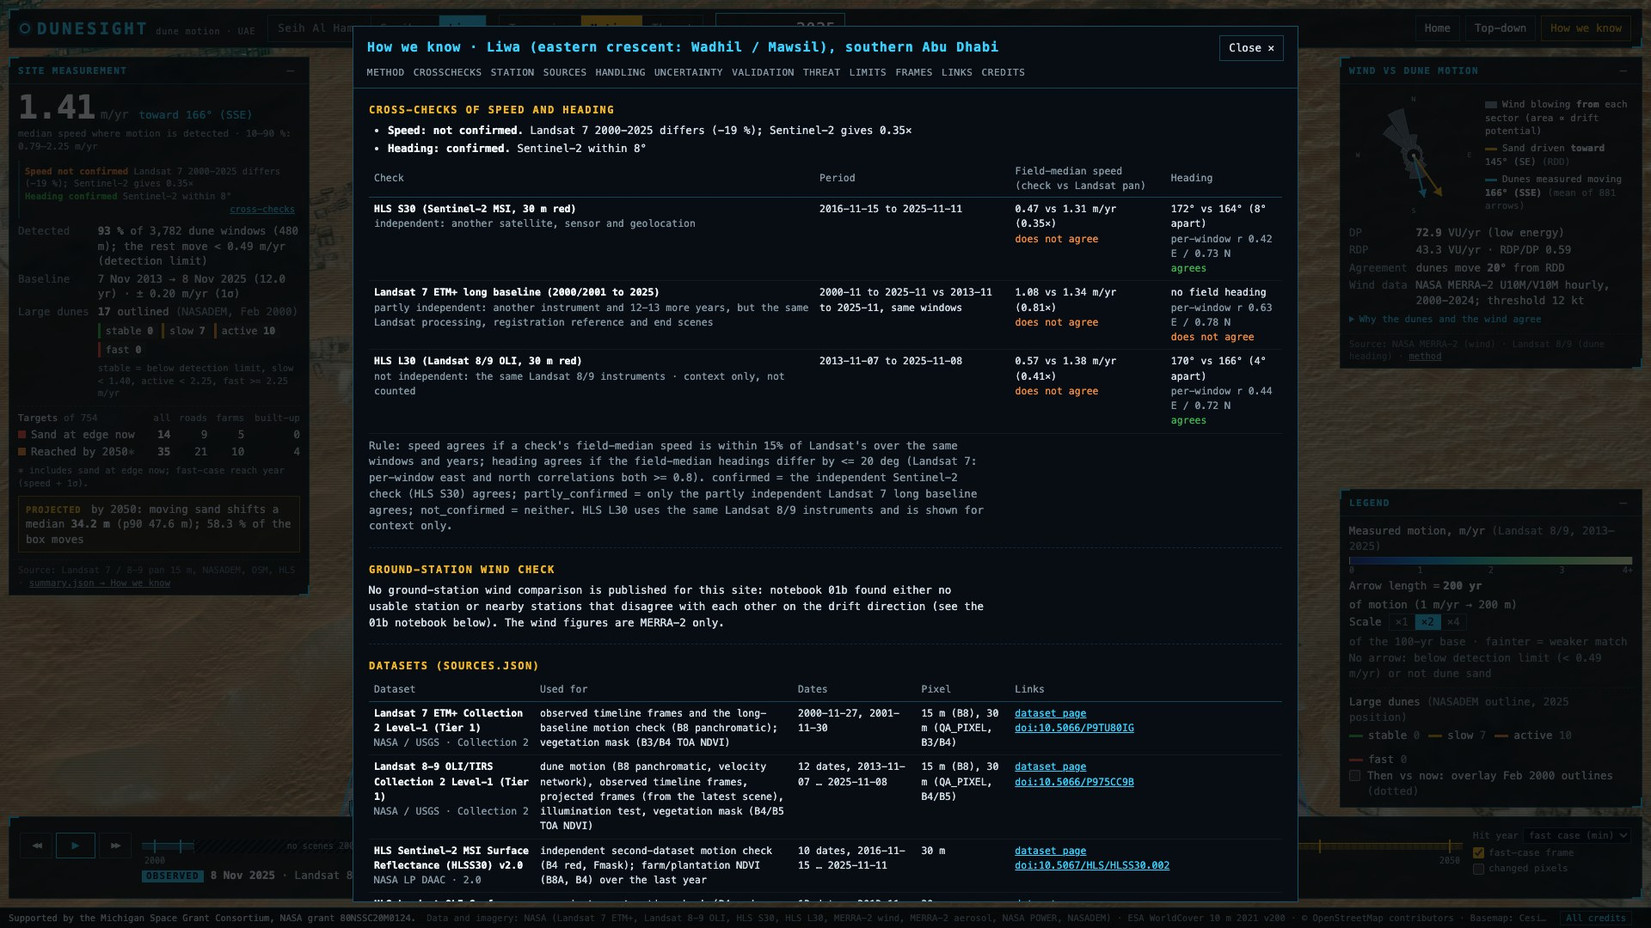
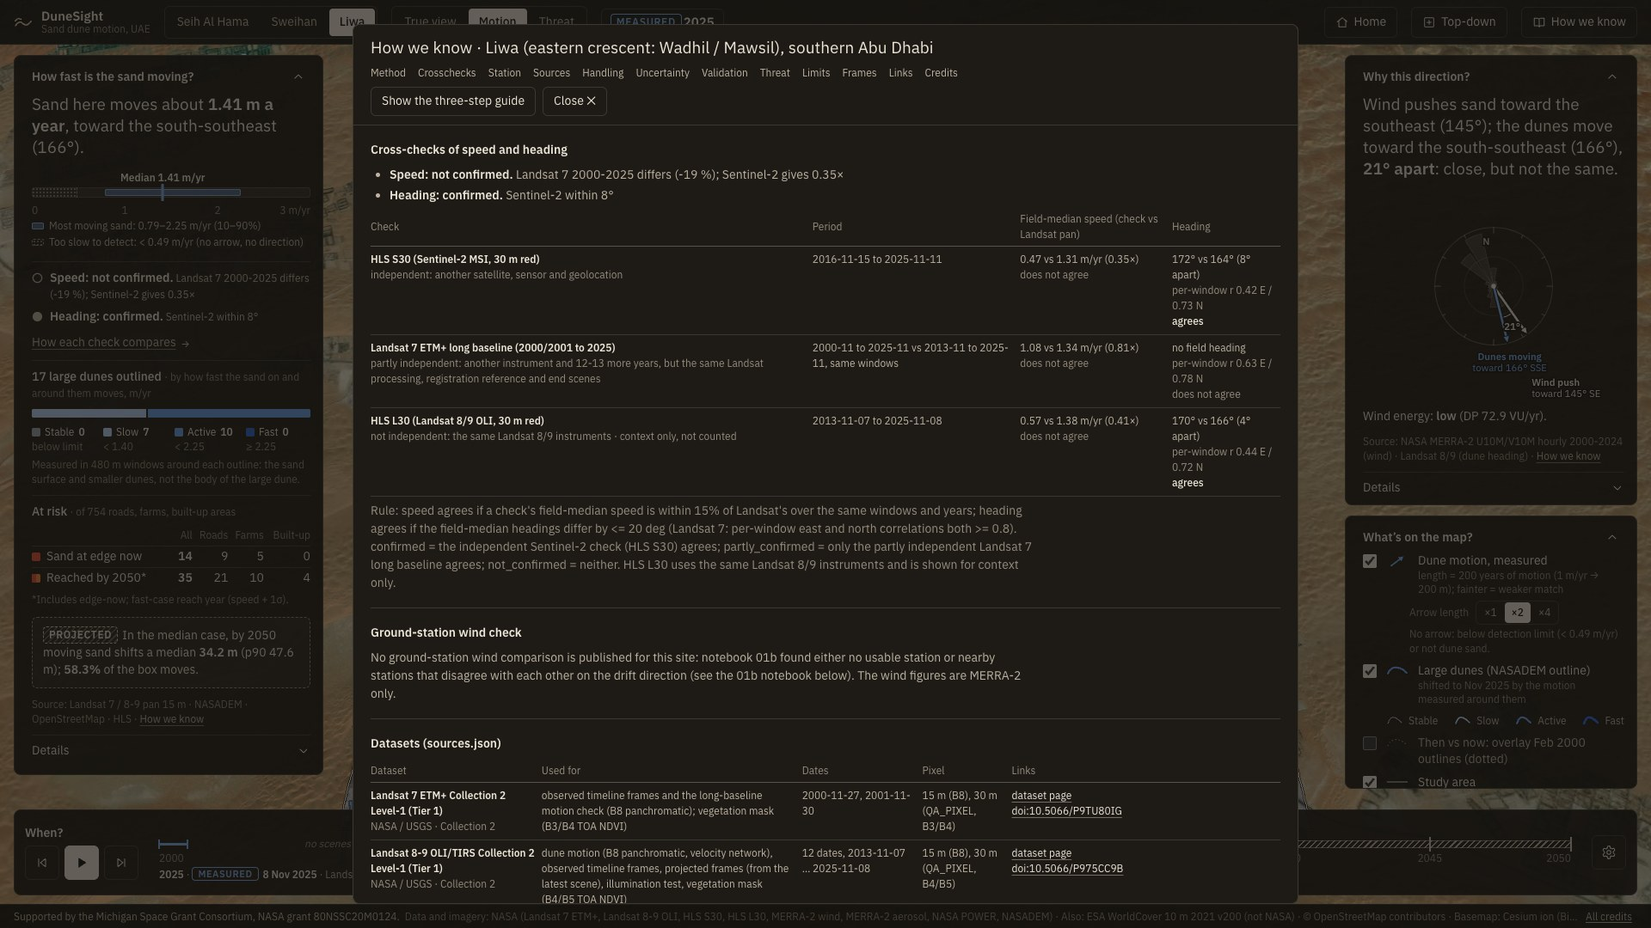
Docs: retake screenshots for the redesigned UI, add a phone screenshot; update README, explain-it and As built

diff --git a/docs/explain-it.md b/docs/explain-it.md
@@ -4,40 +4,46 @@ One line per module, copied from the comment at the top of each file.
 
 | Module | What it does |
 |---|---|
-| `src/main.js` | Boots DuneSight: creates the globe, loads the site index, runs the fly-in, builds each site's layers on first visit and wires state, timeline, picking and HUD together. |
+| `src/main.js` | Boots DuneSight: creates the globe, loads the site index, mounts the UI (src/ui/ui.js) with each site's data, runs the fly-in, builds each site's layers on first visit and wires the UI's callbacks to layers, timeline, picking, camera and the dossier. |
+| `src/ui/ui.js` | DuneSight UI: header, panels (speed, wind, reached places, selection), timeline, legend, first-visit guide, mobile sheet, credits footer. Also exports `MAP_STYLE`, the line colours and widths the map layers use. |
+| `src/ui/site-data.js` | Builds the data object the redesigned UI (ui.js) renders, for one site, from that site's published files only (no site ids, no sample numbers). |
+| `src/ui/tokens.css` | Design tokens of the "field survey instrument" look: colours (each carries one meaning), type, spacing. |
+| `src/ui/ui.css` | Panels, header, timeline, legend, guide and mobile sheet, scoped under `.ds-ui`, plus the pieces the app added (reached list, selection card, measured/projected tags, phone footer). |
 | `src/basemap.js` | Creates the Cesium viewer: ion terrain + imagery when a token works, otherwise Esri imagery on a flat globe, and a dark globe with a note when the basemap is offline. |
 | `src/data.js` | Fetches and caches the static site data under public/data/ (base-path aware) and derives a few values the HUD needs. |
 | `src/state.js` | App state (site, mode, timeline position, selection, toggles) plus a tiny event emitter that modules subscribe to. |
 | `src/format.js` | Number, unit, range, compass-point, date and year formatting in one place, so nothing prints "null", "undefined" or "NaN". |
 | `src/geo.js` | Small geodesy helpers: metre offsets on the ground around a lon/lat, polygon rings, centroids and point-in-polygon. |
-| `src/timeline.js` | Timeline model and control: weather-radar style bar from the first observed scene to 2050 with real gaps, observed/projected division, play/step/scrub and the label of the frame on screen. |
-| `src/layers/frames.js` | Imagery-frame layer: drapes the manifest's observed Landsat frames and amber-tinted projected frames on the globe inside the exact frame bounds, with cross-fades and an optional changed-pixel overlay. |
-| `src/layers/vectors.js` | Motion-vector layer: one ground-clamped arrow per detected 480 m window, pointing along heading_deg, coloured by speed, length on a stated time scale, plus true-scale displacement tracks in projected years. |
-| `src/layers/targets.js` | Target layer: road segments, farms and built-up areas from targets.geojson, batched into a few ground primitives and coloured by threat status at the timeline year. |
-| `src/layers/dunes.js` | Large-dune layer: NASADEM-resolved dune outlines (2025 positions) coloured by class with id labels (decluttered on screen), threat pulse, and the year-2000 outlines dotted for then-vs-now. |
-| `src/layers/util.js` | Shared helpers for the batched ground primitives: colour attributes, readiness, line/polygon instances and colour ramps. |
-| `src/hud/header.js` | HUD header: DuneSight brand, site switcher, mode buttons, OBSERVED/PROJECTED badge with year, view buttons and the dossier button. |
-| `src/hud/panels.js` | HUD panels: collapsible panel frame (state kept per session), the headline numbers from summary.json, and the ranked list of reached targets in Threat mode. |
+| `src/timeline.js` | Timeline model: the stops for a site (every observed scene, then every year to 2050) with the frames to draw at each; the bar and its controls are drawn by the UI (src/ui/ui.js). |
+| `src/layers/frames.js` | Imagery-frame layer: drapes the manifest's observed Landsat frames and stone-tinted projected frames (the projected colour) on the globe inside the exact frame bounds, with cross-fades and an optional changed-pixel overlay. |
+| `src/layers/vectors.js` | Motion-vector layer: one ground-clamped arrow per detected 480 m window, pointing along heading_deg, in the measured-blue accent (fainter = weaker match) with a dark casing, length on a stated time scale, plus true-scale displacement tracks in projected years (stone, the projected colour). |
+| `src/layers/targets.js` | Target layer: road segments, farms and built-up areas from targets.geojson, batched into a few ground primitives, styled per threat status like the legend (dark casing, the "possible" class dashed), coloured by the timeline year and shown or hidden per status class. |
+| `src/layers/dunes.js` | Large-dune layer: NASADEM-resolved dune outlines (Nov 2025 positions) styled by class like the legend (colour, width, dark casing) with id labels (decluttered on screen), threat pulse, and the Feb 2000 outlines dotted for then-vs-now. |
+| `src/layers/util.js` | Shared helpers for the batched ground primitives: colour and show attributes, readiness, line/polygon instances, dash patterns and the map colours (from the UI's MAP_STYLE, so map and legend match). |
 | `src/hud/card.js` | Info cards for a picked dune, target or motion arrow: every number with units and its range where the data gives one, plus the data source. |
-| `src/hud/compass.js` | Wind compass: 16-sector MERRA-2 sand rose (wind FROM), the resultant drift direction (sand moves TOWARD), the measured dune heading, and the optional station result. |
-| `src/hud/legend.js` | Map legend for the current mode: speed ramp and arrow scale (with its scale factor), target status colours, dune classes and their toggles. |
 | `src/hud/dossier.js` | "How we know" dossier for the current site, composed from the data files: method, datasets with links/DOIs, data handling, uncertainty, validation, threat definition, limits and repo links. |
-| `src/hud/credits.js` | Credits footer: the exact grant line, NASA datasets named from sources.json, OpenStreetMap and basemap credits, and the Cesium credit display. |
-| `src/style.css` | DuneSight HUD: dark satellite-intelligence styling, layout of panels around the globe, timeline and credits. |
-| `tests/e2e/acceptance.spec.js` | Acceptance tests from docs/build-spec.md section 8 (the automatable ones), run against the real data files. |
+| `src/hud/credits.js` | Credits: the exact grant line and the NASA / not-NASA split of sources.json (the footer itself is drawn by the UI in src/ui/ui.js). |
+| `src/style.css` | DuneSight app styles outside the panel UI (src/ui/ui.css): page and globe, Cesium credits, toasts, boot screen, the "How we know" dossier, and selection-card contents. |
+| `tests/e2e/acceptance.spec.js` | Acceptance tests from docs/build-spec.md section 8 (the automatable ones) plus the redesigned-UI checks, run against the real data files. |
 | `tests/e2e/helpers.js` | Shared e2e helpers: read the real data files, boot the app and wait for a site, collect console errors. |
 | `tests/tools/screens.mjs` | Dev helper: retakes the screenshots in docs/screenshots/ from a running server, one scripted view each. |
 | `playwright.config.js` | Playwright e2e config: dev server or production build under /dunesight/, plus a token-less dev server for the fallback test. |
 
 ## Design choices the spec left open
 
-- **Arrow scale.** Arrow length is a stated time scale: ×1 = 100 years of motion at the measured speed (1 m/yr → 100 m). Sites whose median speed is under 1.5 m/yr open at ×2 (200 years) so the arrows are readable; the legend always prints the scale in use, and ×1/×2/×4 can be chosen. Arrows start at the window centre (tail = where it was measured).
-- **Speed colours.** One cool ramp (dark blue → cyan → pale green) with a fixed 0–4 m/yr domain for all sites, so colours compare across sites and never look like the warm threat colours of the targets. Opacity encodes match quality. Arrows have a thin dark outline so they read on bright sand.
-- **Timeline stops.** Every observed frame, then every year from the latest scene to 2050 (so a target's reach year can be shown exactly). Between projected frames the most recent projected frame stays on screen and the label says which frame it is; 2026–2029 show the latest observed image and say so. Observation gaps are hatched and labelled, never interpolated.
-- **Target colouring.** A target with a reach year is faint in its status colour before that year and bright (pulsing) from it on, under the fast-case rule (hit_year_min) or the median rule (hit_year_med). “Sand at edge now” targets are bright from the latest observed frame on. “Possible within direction uncertainty” has no year and is always purple; “not reached by 2100” is slate.
-- **Reach ray.** A selected target shows the reach ray from the migrating sand edge to the footprint (solid amber), with a faint dashed link to the 480 m window whose motion was used.
-- **Changed pixels.** An optional overlay marks pixels of the median projection that differ from the latest observed frame by more than 10 grey levels (the manifest's own change statistic), keeping only pixels with at least three such neighbours so JPEG noise in the observed frame is not shown as change.
-- **Optional station file.** `station_wind.json` is requested only when the site's data refers to it (listed in `sites.json` files, or mentioned in `summary.json`/`wind_summary.json`), so a missing file never logs a 404. Notebook 01b publishes it only where the station is a defensible comparison (Seih Al Hama); the wind panel then shows the station drift as a dashed white arrow, with its distance, record and own DP class, and the dossier has a "Ground-station wind check" section with the station's limits. MERRA-2 stays the main wind figure.
-- **Cross-check line.** Under the headline speed, two short rows say whether speed and heading are confirmed, partly confirmed or not confirmed by an independent check, driven only by `summary.confirmation` (no site ids in the code); "cross-checks" opens the dossier table with every check's numbers.
-- **Dossier opening.** The panel text is imported at build time from `docs/how-we-know.md` (between `<!-- panel:start -->` and `<!-- panel:end -->`), so the doc and the app say the same thing.
+- **One look.** The interface is the user-supplied "field survey instrument" design (`src/ui/`): warm charcoal panels, IBM Plex Sans, one plain-English sentence leading each panel. Its colour rule holds on the map too: blue means measured motion, stone (with a dashed edge or hatch) means projected, the warm ramp means threat to a road, farm or built-up area, the cool ramp means dune class. Every map line has a dark casing underneath so it reads over bright sand, and its colour, width and dash are the legend sample's (`MAP_STYLE`).
+- **Arrow scale.** Arrow length is a stated time scale: ×1 = 100 years of motion at the measured speed (1 m/yr → 100 m). Sites whose median speed is under 1.5 m/yr open at ×2 (200 years) so the arrows are readable; the legend always prints the scale in use, and ×1/×2/×4 can be chosen there. Arrows start at the window centre (tail = where it was measured). Speed is shown by length and in the card, not by colour: all arrows are the measured blue, fainter where the match is weaker.
+- **One heading per site.** The heading shown everywhere (speed panel, compass, wind sentence) is the pipeline's field median of the windows with detected motion, which `summary.json` states in `wind_agreement_note` (and `station_wind.json` repeats as `dune_heading_deg`). The vector mean of the thinned arrows drawn on the map is a different average of the same field; it appears only in the wind panel's details and the dossier, labelled as such.
+- **Wind sentence.** The wind panel's lead is written from the data: within 20° the wind and dunes "move the same way", 20–45° they are "close, but not the same", beyond that the dunes "are moving" elsewhere. 20° is the heading tolerance of the cross-check rule in `summary.confirmation`.
+- **Timeline stops.** Every observed frame, then every year from the latest scene to 2050 (so a target's reach year can be shown exactly). Between projected frames the most recent projected frame stays on screen and the readout says which frame it is; 2026–2029 show the latest observed image and say so. Every gap between scenes is drawn as a gap: the long one labelled "no scenes 2002–2012", one-year gaps (2018, or 2016 at Liwa) dashed.
+- **Projected imagery.** Projected frames are tinted stone over the latest observed scene (55 % at 2030 falling to 30 % at 2050), the study-area edge turns dashed stone, and a PROJECTED tag sits on the map at the box corner. The fast case can be drawn faint on top (timeline settings).
+- **Target colouring.** A target with a reach year is faint in its status colour before that year and bright (pulsing) from it on, under the fast-case rule (`hit_year_min`) or the median rule (`hit_year_med`), chosen in timeline settings. "Sand at edge now" targets are bright from the latest observed frame on. "Possible within direction uncertainty" has no year and is drawn dashed. Each of the five classes has its own legend checkbox in Threat mode.
+- **Reach ray.** A selected target shows the reach ray from the migrating sand edge to the footprint (stone, since it is a projection), with a faint dashed link to the 480 m window whose motion was used.
+- **Changed pixels.** An optional overlay marks pixels of the median projection that differ from the latest observed frame by more than 10 grey levels (the manifest's own change statistic), keeping only pixels with at least three such neighbours so JPEG noise in the observed frame is not shown as change. They are stone with a dark edge.
+- **Optional station file.** `station_wind.json` is requested only when the site's data refers to it (listed in `sites.json` files, or mentioned in `summary.json`/`wind_summary.json`), so a missing file never logs a 404. Where it is published (Seih Al Hama) the compass shows the station drift as a dashed arrow, the wind panel says in one line where the station puts the push, its details give distance, record and the station's own DP class, and the dossier has a "Ground-station wind check" section with the station's limits. MERRA-2 stays the main wind figure.
+- **Cross-check lines.** In the speed panel, two rows say whether speed and heading are confirmed, partly confirmed or not confirmed by an independent check, driven only by `summary.confirmation` (no site ids in the code); the link under them opens the dossier table with every check's numbers.
+- **Reached places.** In Threat mode the right-hand column shows the ranked list of reached roads, farms and built-up areas (earliest fast-case year, then smallest gap) in place of the wind panel; selecting one flies there and opens its card.
+- **Selection card.** On a desktop the card opens as its own column next to the right-hand panels; on a phone it is a "Selected" tab of the bottom sheet.
+- **Dossier opening.** The panel text is imported at build time from `docs/how-we-know.md` (between `<!-- panel:start -->` and `<!-- panel:end -->`), so the doc and the app say the same thing. The dossier also reopens the first-visit guide.
 - **Dune labels.** After each camera move the labels are placed in screen space by priority (threatened, then taller dunes); a label that would overlap one already placed is hidden until the view is close enough.
+- **Fonts.** IBM Plex Sans and Mono are bundled (`@fontsource`, SIL OFL 1.1) and loaded before the first site is drawn, so canvas labels use them and the app makes no third-party font request.

diff --git a/docs/build-spec.md b/docs/build-spec.md
@@ -161,11 +161,14 @@ Automate what can be automated (Playwright with a headless Chromium is fine as a
 Where the app deliberately differs from this spec, and why:
 
 - **Station wind file.** `station_wind.json` is richer than section 3 describes (`station {name, id, wmo, icao, lat, lon, elevation_m, distance_km, bearing_from_site_deg, years, hours_reported_pct_min/max, DP, RDP, RDD_deg, RDP_DP, dp_class, …}`, `merra2_site_cell`, `merra2_station_cell`, `secondary[]`, `limits[]`, `note`, `role`, `representative`). It is published only where notebook 01b's fixed rule says the station is a defensible comparison (Seih Al Hama) and is listed in `sites.json` `files` only there, so the app never requests a missing file. A `representative: false` flag, if ever published, hides the station arrow.
-- **Cross-check line.** Not in the spec: the headline panel shows, under the speed, whether speed and heading are confirmed by an independent check (`summary.confirmation`, written by notebook 03 from notebook 02's QC), and the dossier has a "Cross-checks" table. Requested after the Liwa re-measurement.
+- **Cross-check line.** Not in the spec: the speed panel shows, under the speed, whether speed and heading are confirmed by an independent check (`summary.confirmation`, written by notebook 03 from notebook 02's QC), and the dossier has a "Cross-checks" table. Requested after the Liwa re-measurement.
 - **Dossier opening.** The dossier opens with the panel text of `docs/how-we-know.md` (imported from that file at build time, so the two cannot drift), then a per-site plain-language method composed from the data, then cross-checks and the ground-station section.
 - **Dune labels.** Labels are decluttered in screen space: where outlines cluster (e.g. Seih Al Hama D008–D011), the lower-priority label (non-threat, lower dune) is hidden until the view is close enough for it to fit.
 - **Arrow scale.** Sites with a median speed under 1.5 m/yr open at ×2 (arrow = 200 years of motion); the legend always states the factor.
 - **Timeline.** Stops at every observed frame and every year from the latest scene to 2050 (so a reach year can be shown exactly); between projected frames the latest projected frame stays on screen and the label says which.
 - **Credits.** The footer separates NASA datasets from others by provider (ESA WorldCover and NOAA ISD are not listed as NASA).
+- **Redesigned interface (2026-11-15).** The dark cyan/amber HUD of section 4.1 was replaced by the user's "field survey instrument" design (`src/ui/`: warm charcoal, IBM Plex Sans, one plain-English sentence leading each panel, a first-visit guide, a phone bottom sheet). Its colour rule replaces the colours of sections 4.3 and 4.6: measured motion is one blue (arrow speed is shown by length and in the card, no longer by a colour ramp), projected is stone with a dashed edge or hatch (projected frames are tinted stone, not amber, the study-area edge turns dashed and a PROJECTED tag sits on the map), threat classes are a warm ramp (the "possible" class dashed), dune classes a cool ramp with widths, and every map line has a dark casing. Legend checkboxes switch each layer on and off per mode, including each threat class. Modes keep their meaning but follow the design's presets: True view opens with the image and the study box only (dunes, arrows, targets and the exposed marking are one click away), Motion hides the targets, Threat dims the dunes and keeps the arrows near reached targets. Where the design had no place for an existing feature it was added in the same style: the ranked list of reached targets replaces the wind panel in Threat mode; the selection card is its own column (a tab on a phone); the arrow-length scale, "exposed to blowing sand" and then-vs-now are legend rows; the hit-year rule, fast-case frame and changed pixels are in the timeline's settings; the observed/projected badge is a chip in the header; credits stay in the footer (on a phone as a two-line footer).
+- **One heading per site.** The headline used to show the vector mean of the arrows drawn on the map (37° at Seih Al Hama) while the station text and the pipeline used the field median (29°). Every heading on screen is now the pipeline's field median, read from `summary.json` `wind_agreement_note` (the only place it is published; there is no numeric field) and checked against `station_wind.json` `dune_heading_deg` where present. The arrows' vector mean appears only in the wind panel's details and the dossier, labelled as a different average. The wind-versus-dunes angle on screen is therefore 71° at Seih Al Hama (was 62°), 4° at Sweihan, 21° at Liwa; no measured value changed.
+- **Fonts.** IBM Plex is bundled (`@fontsource`, SIL OFL 1.1) instead of loaded from Google Fonts.
 - **Not built:** the Leaflet 2D fallback (Cesium renders the data reliably) and the optional items of section 7 (orbit track, wind streaks, swipe).
-- **Tests.** Playwright e2e against the dev server and the production build under `/dunesight/`; ports can be moved with `E2E_DEV_PORT`, `E2E_NOTOKEN_PORT`, `E2E_PROD_PORT`.
+- **Tests.** Playwright e2e against the dev server and the production build under `/dunesight/`; ports can be moved with `E2E_DEV_PORT`, `E2E_NOTOKEN_PORT`, `E2E_PROD_PORT`. Besides section 8 they check every legend checkbox in every mode, the first-visit guide, the timeline settings, the data-driven wind sentence and the single heading at all sites, the phone layout (390 × 844), that no font is requested from a third party, and that each dataset DOI resolves to its publisher's page (a bot block from that publisher counts as a pass with a logged note).

diff --git a/README.md b/README.md
@@ -20,9 +20,11 @@ npm run build      # production build into dist/ (base path /dunesight/)
 
 Optional: copy `.env.example` to `.env` and set `VITE_CESIUM_TOKEN` to a Cesium ion token (allowed URLs: the Pages URL and `http://localhost:5173`). Without a token the globe uses Esri World Imagery and a flat ellipsoid.
 
-**Using it.** Pick a site in the header; *True view*, *Motion* and *Threat* are presets of the layers. Click an arrow, a dune outline or a road/farm/built-up target for its card (Esc clears). The timeline plays with the button or the space bar; arrow keys step. *How we know* opens the method, sources, validation and limits for the site. Module-by-module notes and the design choices are in [docs/explain-it.md](docs/explain-it.md).
+**Using it.** Pick a site in the top bar; *True view*, *Motion* and *Threat* are presets of the layers, and every layer (down to each of the five threat classes) has a checkbox in *What's on the map?*. The left panel says how fast the sand moves, with its range, its detection limit and how well an independent check confirms it; the right panel says why it moves that way (wind versus dunes) or, in Threat mode, which roads, farms and built-up areas the sand reaches first. Click an arrow, a dune outline or a target for its card (Esc clears). *When?* plays the measured scenes and then the projected years with the button, the space bar or the arrow keys; its gear holds the reach-year case, the fast-case frame and the changed-pixel overlay. *How we know* opens the method, sources, validation and limits for the site, and reopens the three-step guide shown on the first visit. On a phone the panels become a bottom sheet with tabs. Module-by-module notes and the design choices are in [docs/explain-it.md](docs/explain-it.md).
 
-**Tests.** `npm run test:e2e` builds, then runs the Playwright acceptance suite (spec section 8) against the dev server and against the production build served under `/dunesight/` (first time: `npx playwright install chromium`). `npm run test:e2e:dev` runs only the dev pass. Set `E2E_SWIFTSHADER=1` to force software WebGL.
+<img src="docs/screenshots/seih-phone-390x844.jpg" alt="DuneSight on a phone (390 × 844): the globe above a bottom sheet with Speed, Wind, Map key and Time tabs" width="260">
+
+**Tests.** `npm run test:e2e` builds, then runs the Playwright acceptance suite (spec section 8) against the dev server and against the production build served under `/dunesight/` (first time: `npx playwright install chromium`). `npm run test:e2e:dev` runs only the dev pass. Ports can be moved with `E2E_DEV_PORT`, `E2E_NOTOKEN_PORT` and `E2E_PROD_PORT`. Set `E2E_SWIFTSHADER=1` to force software WebGL.
 
 ## Run the pipeline
 
@@ -59,7 +61,7 @@ Full citations (versions, dates, places, pixel sizes, DOIs) are in [docs/data-an
 
 Supported by the Michigan Space Grant Consortium, NASA grant 80NSSC20M0124.
 
-Data and imagery courtesy of NASA and USGS (datasets listed above); station wind data from NOAA NCEI. This project is not endorsed by NASA.
+Data and imagery courtesy of NASA and USGS (datasets listed above); station wind data from NOAA NCEI. Typeface: IBM Plex, SIL Open Font License 1.1, bundled with the app. This project is not endorsed by NASA.
 
 ## License
 
